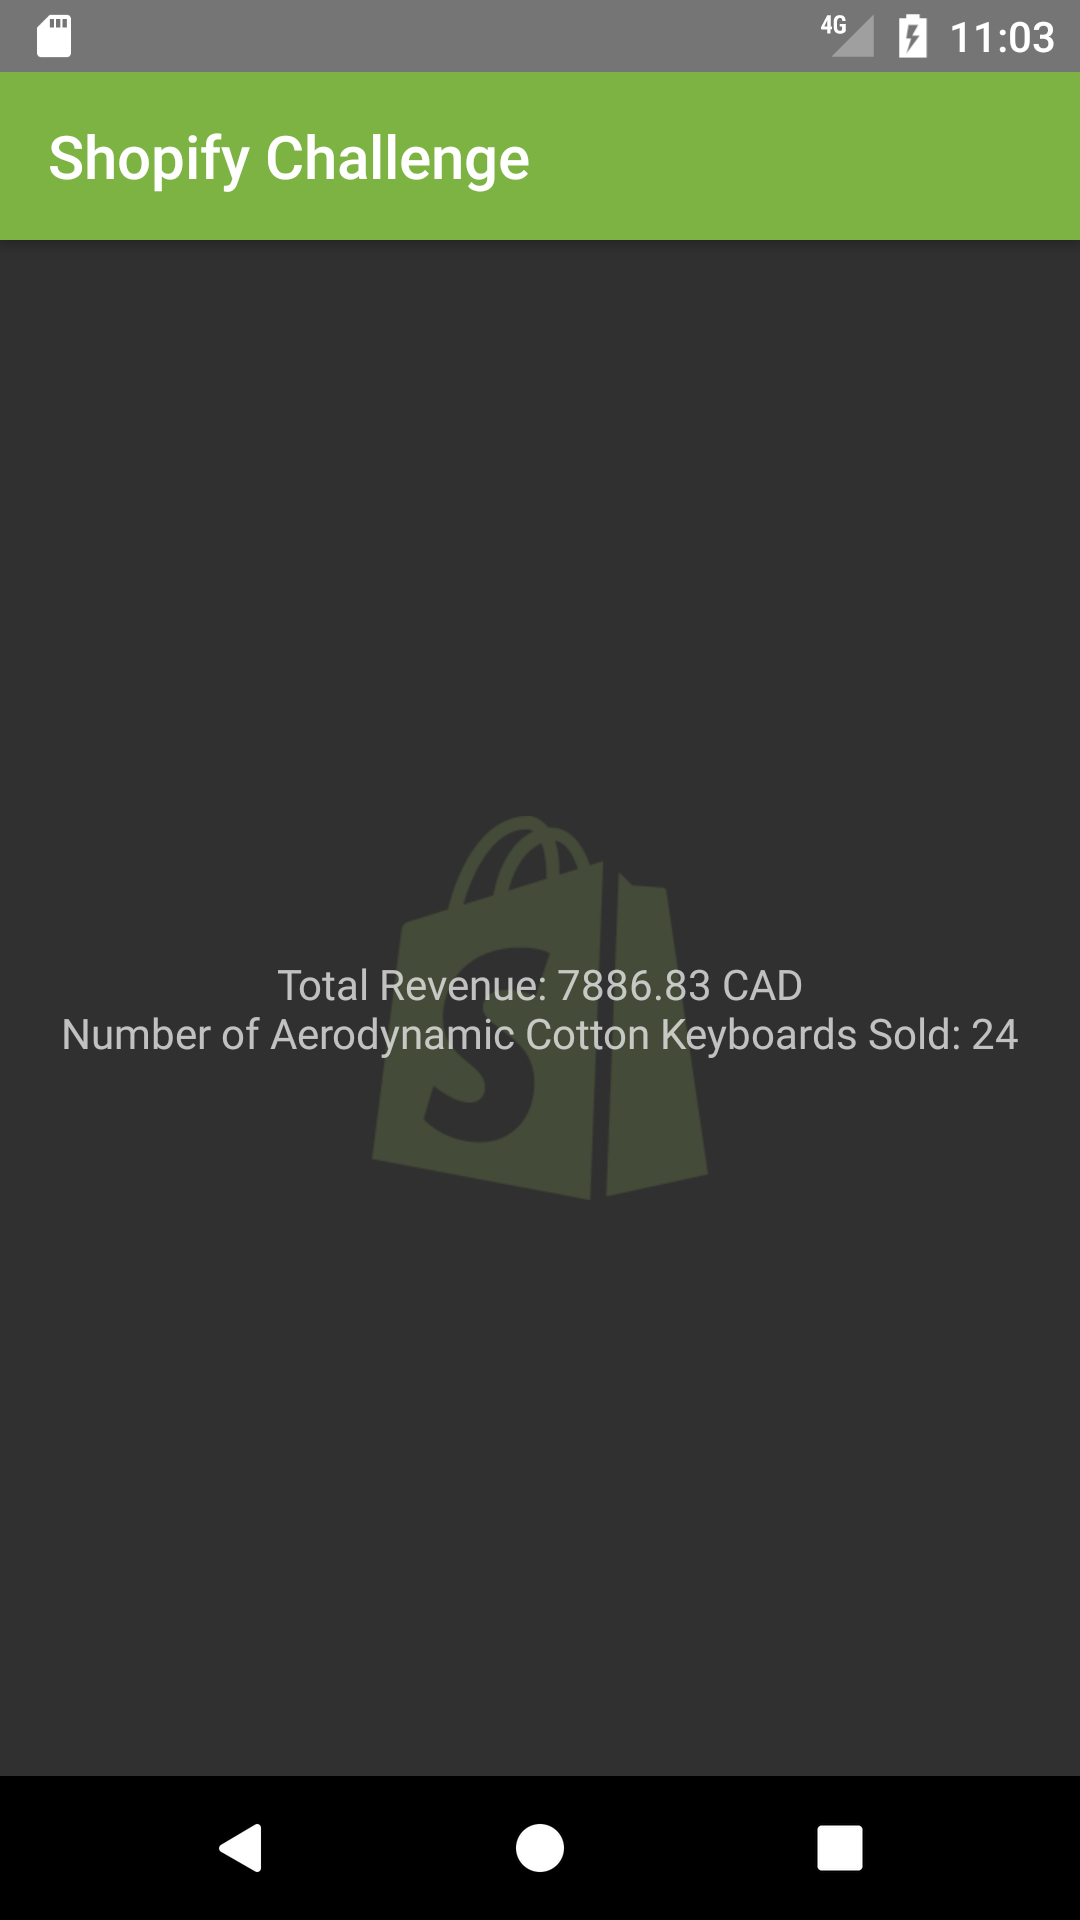
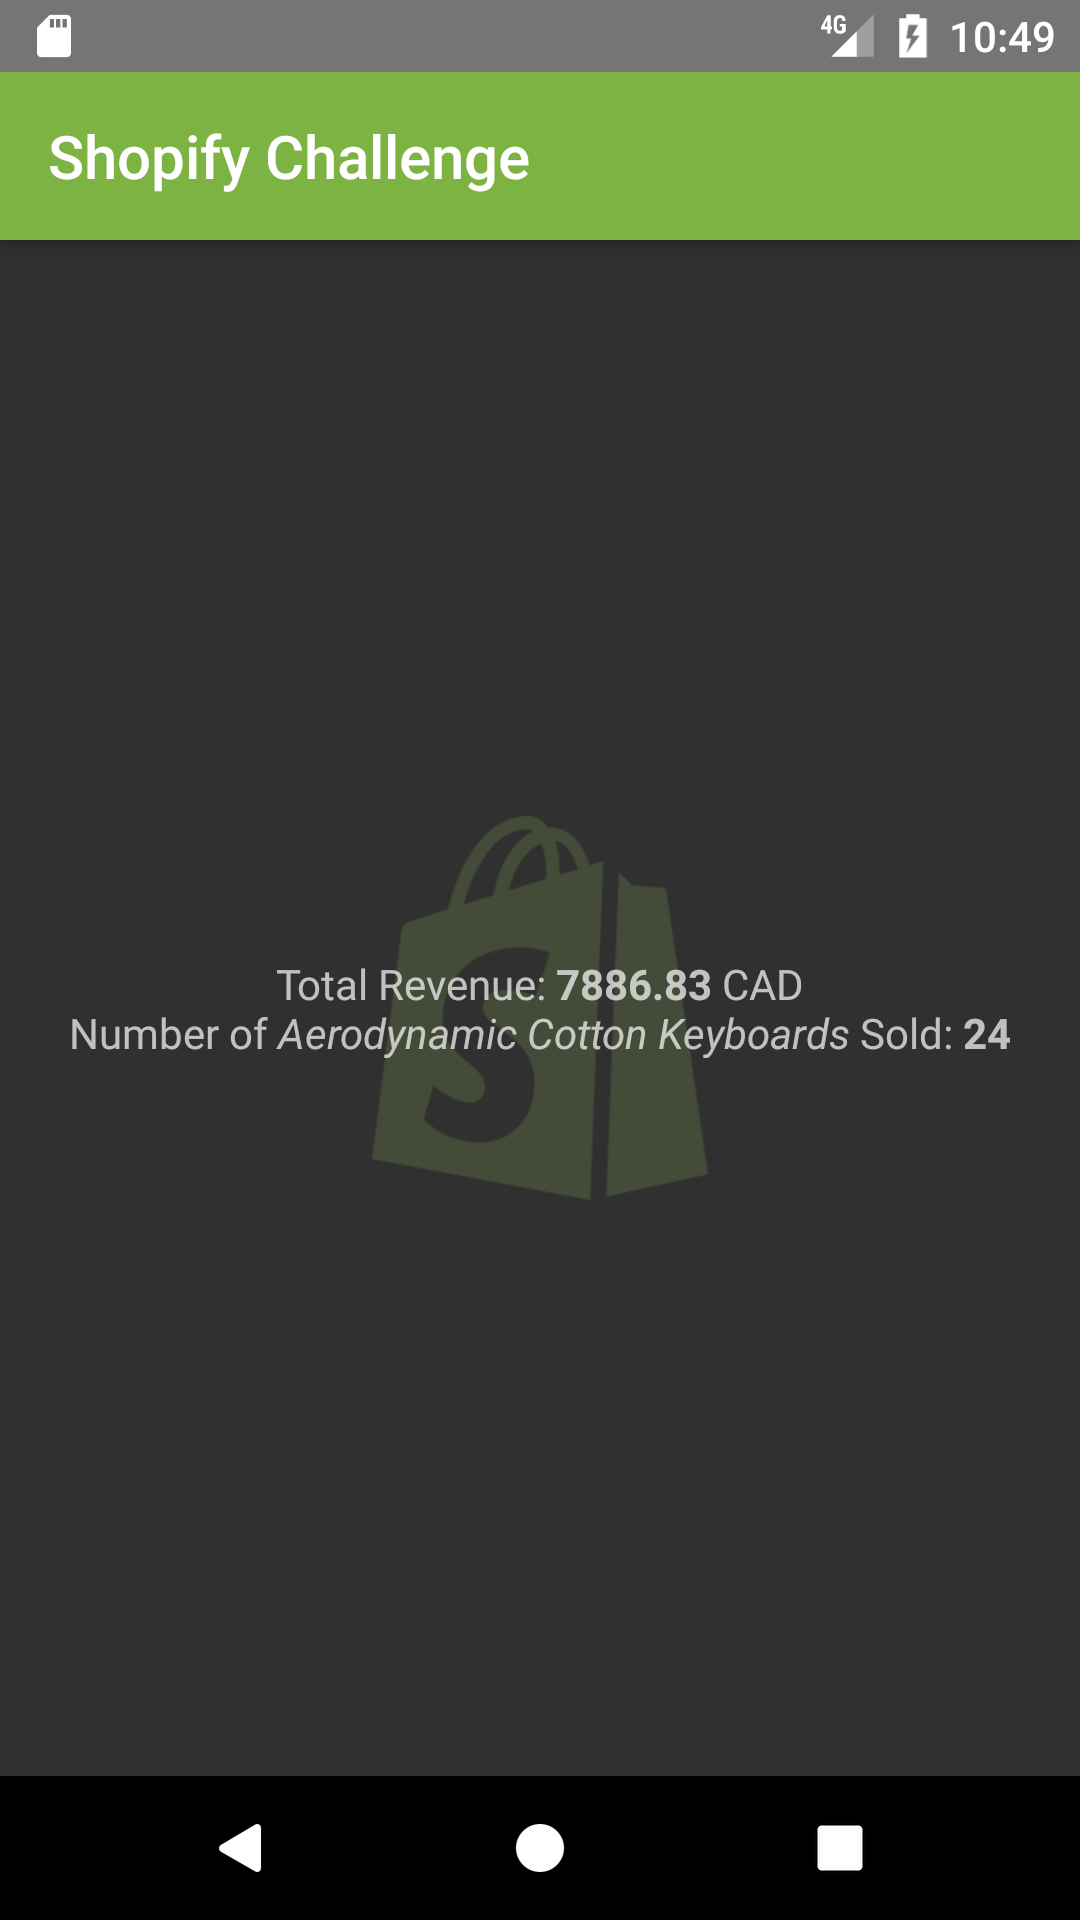
Used HTML formatting to display information; miscellaneous fixes

Changed region(s): [[0.0611, 0.5, 0.9472, 0.5625], [0.8861, 0.0, 0.9778, 0.0312], [0.7639, 0.0, 0.7944, 0.0312]]

diff --git a/app/src/main/java/com/zhang/tony/shopifychallenge/MainActivity.java b/app/src/main/java/com/zhang/tony/shopifychallenge/MainActivity.java
@@ -1,8 +1,10 @@
 package com.zhang.tony.shopifychallenge;
 
 import android.os.AsyncTask;
+import android.os.Build;
 import android.support.v7.app.AppCompatActivity;
 import android.os.Bundle;
+import android.text.Html;
 import android.view.View;
 import android.widget.ProgressBar;
 import android.widget.TextView;
@@ -107,8 +109,16 @@ public class MainActivity extends AppCompatActivity {
 
             progressBar.setVisibility(View.GONE);
             txtMainInfo.setVisibility(View.VISIBLE);
-            txtMainInfo.setText(String.format(Locale.CANADA,
-                    "Total Revenue: %.2f CAD\nNumber of Aerodynamic Cotton Keyboards Sold: %d", accuRevenue, accuKeyboards));
+
+            if (Build.VERSION.SDK_INT >= Build.VERSION_CODES.N) {
+                txtMainInfo.setText(Html.fromHtml(String.format(Locale.CANADA,
+                        "Total Revenue: <b>%.2f</b> CAD<br>Number of <i>Aerodynamic Cotton Keyboards</i> Sold: <b>%d</b>",
+                        accuRevenue, accuKeyboards), Html.FROM_HTML_MODE_COMPACT));
+            } else {
+                txtMainInfo.setText(Html.fromHtml(String.format(Locale.CANADA,
+                        "Total Revenue: <b>%.2f</b> CAD<br>Number of <i>Aerodynamic Cotton Keyboards</i> Sold: <b>%d</b>",
+                        accuRevenue, accuKeyboards)));
+            }
         }
     }
 }

diff --git a/README.md b/README.md
@@ -1,8 +1,9 @@
-# shopifychallenge
-My Solution to the Shopify Fall 2017 Internship Application Mobile Development Problem
+# Tianyi Zhang's Solution to the Shopify Fall 2017 Internship Mobile Development Problem
+
+[Online repository](https://github.com/tonyzhang617/shopifychallenge)
 
 Here is a screenshot of the app:
 ![Screenshot](https://raw.githubusercontent.com/tonyzhang617/shopifychallenge/master/assets/screenshot.png)
 
 **Solution:**
-The Android app reads the JSON file with OkHttpClient in an AsyncTask. Upon completion, the AsyncTask calculates the total revenue and the amount of keyboards sold in two nested for loops and display the information on a TextView.
+The app first reads the JSON file with OkHttpClient in an AsyncTask. Upon completion, the AsyncTask calculates the total revenue and the amount of keyboards sold in two nested for loops, and then displays the information on the TextView.
